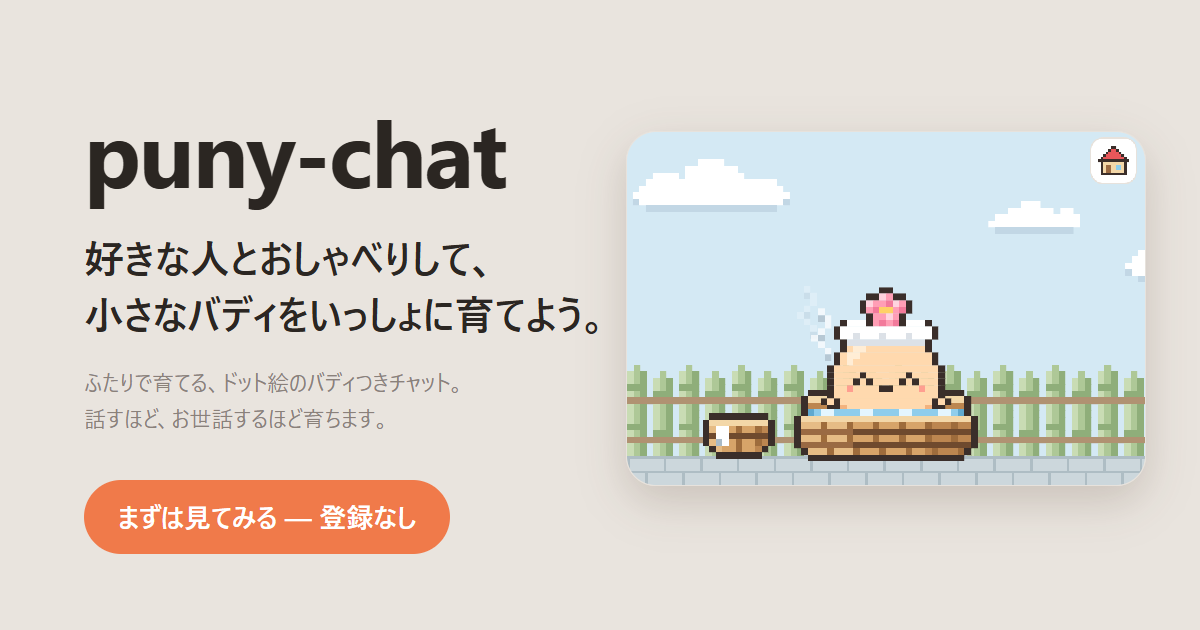
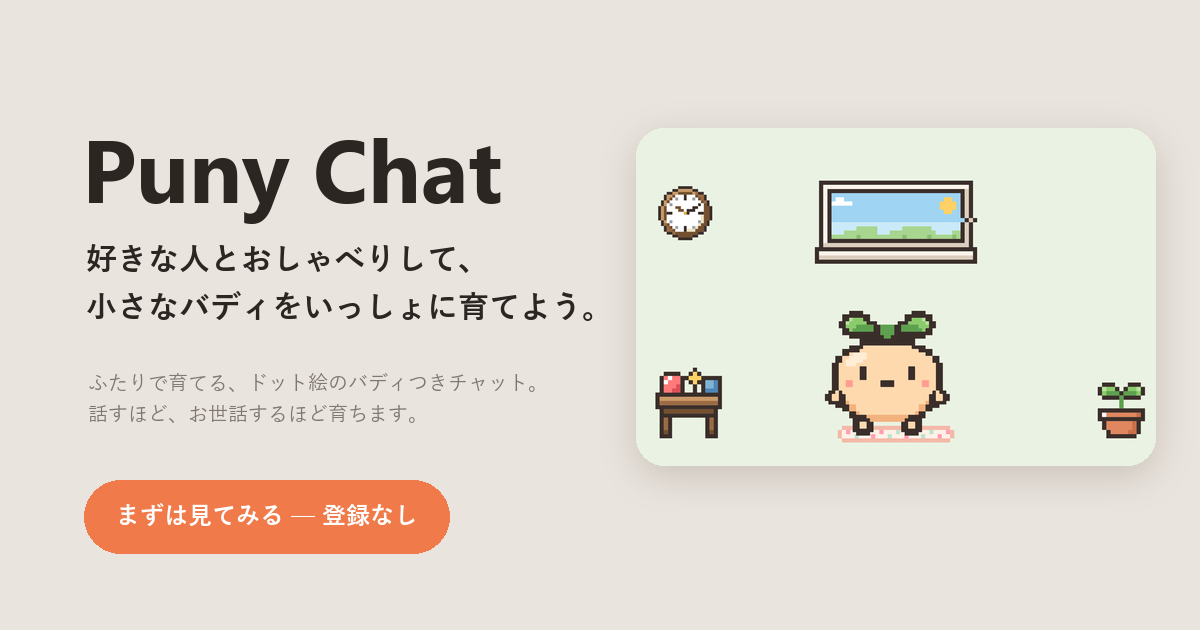
feat: 링크 미리보기 그림을 지금 버디와 "Puny Chat" 이름으로 다시 만든다
예전 온천 장면의 옛 버디와 "puny-chat" 이름이 그대로 보였다. 개발 빌드 /preview의 Lv.11 꼬마 방을
4배로 그려 같은 구성(일본어 문구, 시작 버튼)에 넣었다. 원본이던 docs/images/bath.png는 지운다.

diff --git a/app/src/app/+html.tsx b/app/src/app/+html.tsx
@@ -22,8 +22,8 @@ export default function Root({ children }: PropsWithChildren) {
         <title>{TITLE}</title>
         <meta name="description" content={DESCRIPTION} />
         {/* Link previews (KakaoTalk, Slack, X, …) read these without running the app. The image
-            is public/og.png (the hot spring scene,
-            docs/images/bath.png), in Japanese for the Japanese App Store launch. */}
+            is public/og.png (a kid buddy's room from /preview, stage=CHILD&level=11), in Japanese for
+            the Japanese App Store launch. */}
         <meta property="og:type" content="website" />
         <meta property="og:site_name" content={TITLE} />
         <meta property="og:title" content={`${TITLE} · 小さなバディをいっしょに育てよう`} />

diff --git a/CLAUDE.md b/CLAUDE.md
@@ -161,7 +161,7 @@
   구조를 바꾸면 경계를 넘을 때 앱 전체가 다시 마운트되므로 그렇게 하지 않는다. 모달 시트도 `WebFrame`으로 감싼다.
 - 초대 링크 `join?code=`: 로그인 전이면 `features/room/pending-invite`가 코드를 기억했다가 이름을 정한 뒤 참가 화면을 연다.
   복사는 `lib/clipboard`(`expo-clipboard`, 앱·웹 공용).
-- 링크 미리보기(Open Graph, 일본어 — 일본 App Store 출시)는 `app/+html.tsx`, 이미지는 `app/public/og.png`(1200×630, 온천 장면 `docs/images/bath.png`에 일본어 문구를 얹음).
+- 링크 미리보기(Open Graph, 일본어 — 일본 App Store 출시)는 `app/+html.tsx`, 이미지는 `app/public/og.png`(1200×630, 개발 빌드 `/preview?stage=CHILD&level=11&hour=10`의 방을 그려 일본어 문구를 얹음).
 - iOS-first design ≠ iOS-only code. 플랫폼 분기는 정말 다를 때만 `*.ios.ts` / `*.web.ts`로 나눈다.
 - 라이브러리는 구체적인 문제가 생겼을 때만 추가한다.
 - UI 문구는 처음부터 다국어(ja / ko / en / zh-Hant, 중국어는 대만용 번체). 화면에 문자열을 직접 쓰지 않고 `app/src/i18n/locales/*.json`에 넣고
